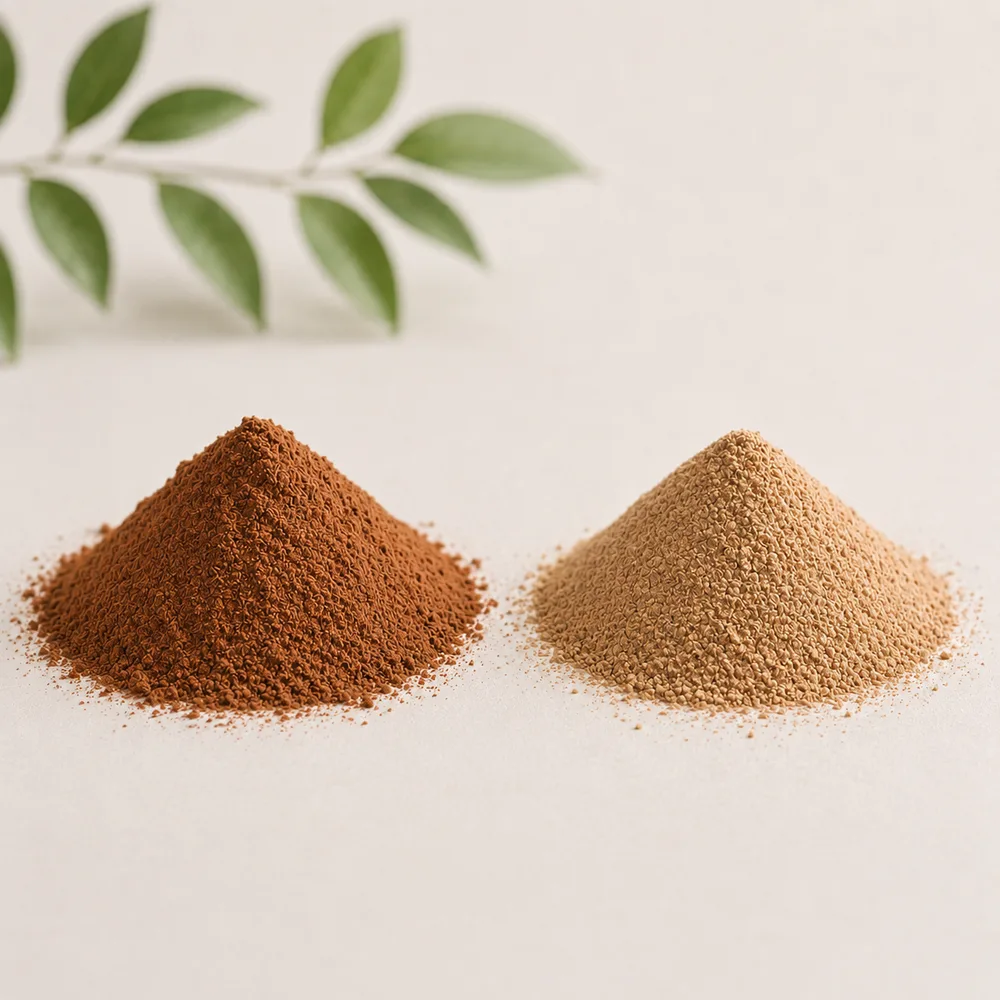
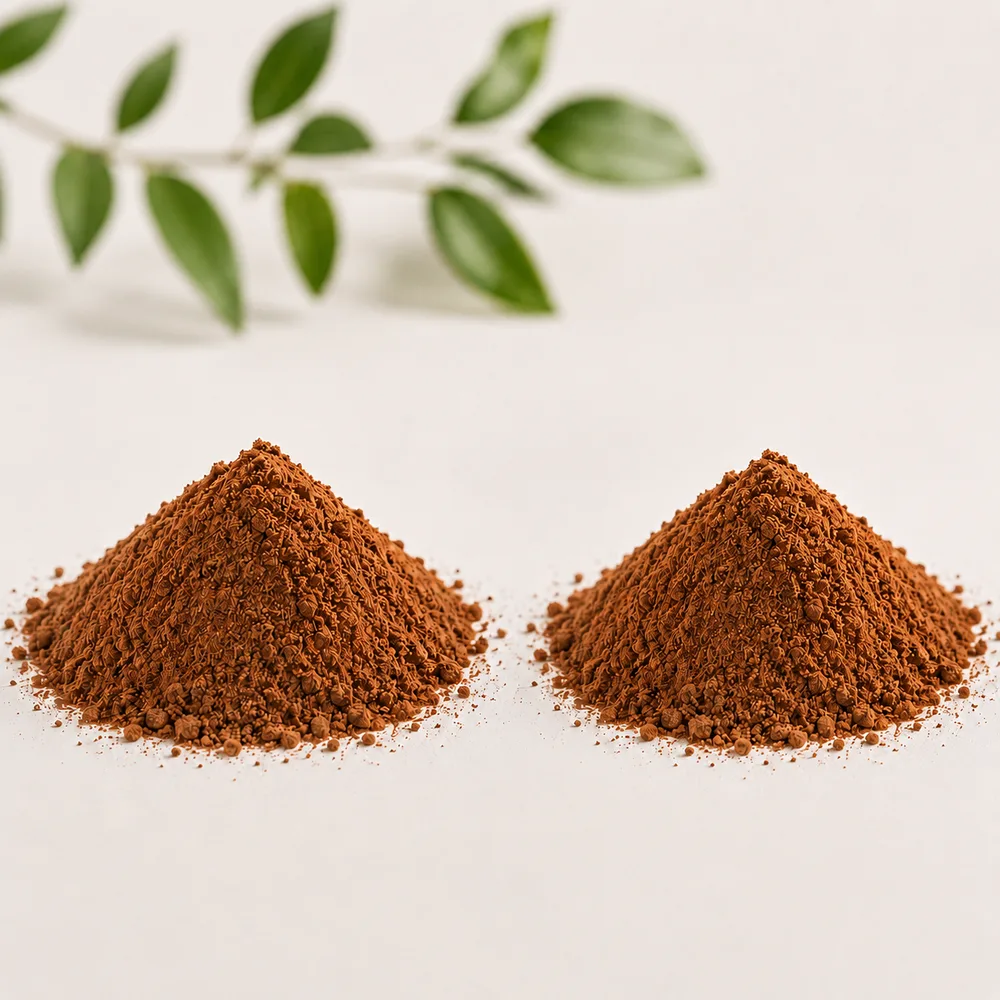
Rebuild the scan page around two jars of the same powder
Both jars now hold the same powder, so the piles match and the old premise is
gone. The page no longer asks which is malt and which is protein. It asks the
visitor to imagine both sold as the same premium protein powder, one carrying a
tag and one not, and the reveal is which of them can prove where it came from.

The wording for the untagged jar is deliberately not an accusation. "No tag, so
there is nothing to test. It might be a lower grade sold at the premium price,
or it might be exactly what it claims. Looking at it will never tell you
which." That is also the honest reading of the science: a tag proves origin,
and its absence proves nothing except that nothing can be proved. Calling the
second jar fake would claim a result the test cannot return.

The opening line stays conditional, "Say both of these were sold to you as the
same premium protein powder", rather than asserting it. The jars really hold
malt powder, so a visitor who tastes one would catch a flat assertion out. This
is the same rule that got the "close to identical" line cut on 24 Aug, applied
to the opposite fact, and the printed poster has been conditional all along.

Both card images are crops of the one photograph rather than two separate
shots, because the piles genuinely are the same powder and staging two
photographs would reintroduce a difference the page says is not there. Named
scan-left and scan-right, not scan-verified and scan-unverified: the filename
[…]

diff --git a/docs/qr-scan-tracking.md b/docs/qr-scan-tracking.md
@@ -1,9 +1,13 @@
 # QR scan tracking for event stands
 
-First used for the IP Week 2026 stand: two jars of brown powder (left: a
-chocolate malt powder, right: chocolate protein powder), one QR code on the
-stand card, and the question "could you tell which one is authentic?".
-Scanning it reveals what both jars hold and counts the scan.
+First used for the IP Week 2026 stand: two jars of the same brown powder, one
+QR code on the stand card, and the question "could you tell which one is
+authentic?". The page asks the visitor to imagine both jars sold as the same
+premium protein powder, one carrying a tag and one not, and counts the scan.
+
+The jars held two different powders until 25 August, a malt powder and a
+protein powder, and the page asked which was which. Both now hold the same
+powder so that the piles genuinely match.
 
 ## The pieces
 
@@ -108,39 +112,48 @@ If it is ever wanted back, print two codes pointing at `/malt` and `/protein`.
 Both still work, both still count separately, and both now land on the same
 combined page, so it is a printing decision and needs no code change at all.
 
-## Never say the two powders look identical
+## Look at the jars before writing about how they look
 
-The first draft of `scan.yml` said the jars were "to the eye, close to
-identical" and that "colour, texture and smell are easy to imitate". They are
-not identical: the malt powder is a visibly darker, redder brown than the
-protein powder, and the reader is holding their phone next to both jars when
-they read the sentence. A claim the visitor can disprove by looking up is worse
+This rule has been true in both directions inside two days, which is why it is
+written down rather than remembered.
+
+Until 25 August the jars held two different powders and the copy could not say
+they looked alike, because they did not. One was a visibly darker, redder brown
+than the other, and the reader is holding their phone next to both jars while
+reading the sentence. A claim the visitor disproves by glancing up is worse
 than no claim, and on this stand it discredits the demonstration at the exact
-moment we are asking them to trust a measurement.
+moment we are asking someone to trust a measurement.
 
-The printed poster already gets this right. "**If** these were sold as the
-same product, could you tell which one is authentic?" is conditional, and
-survives two different browns. The page follows the poster: it concedes the
-difference and makes that the argument. Appearance can show two things differ;
-it cannot say which one is what it claims to be, because shade moves between
-batches and suppliers for ordinary reasons. The wording of that argument
-changed on 24 Aug (see Copy approval below) but the argument did not.
+On 25 August both jars were refilled with the same powder on purpose, so the
+piles now match. The copy says so, and the demonstration is stronger for it:
+there is nothing left to compare, which was always the point.
 
-If the jars are ever refilled with better-matched powders, this copy still
-works. Do not "tighten" it back to identical.
+So the rule is not "say they are identical", and it is not "never say it". It
+is: look at the jars, then write. Nothing in this repository knows what is in a
+physical jar in Singapore, and no build, test or review will ever catch this
+class of error.
+
+The printed poster is written to survive either state. "**If** these were sold
+as the same product, could you tell which one is authentic?" is conditional and
+holds whichever powders are in the jars. The page follows it: the opening line
+says "Say both of these were sold to you as the same premium protein powder"
+rather than asserting it, because the jars really hold malt powder and a
+visitor who tastes one would know. Keep that conditional.
 
 ## Copy approval
 
-The wording in `src/_data/scan.yml` is a first draft written 24 Aug 2026 and
-has not been through Kirsty. Two things to look at deliberately:
+The wording in `src/_data/scan.yml` was drafted 24 Aug 2026 and rewritten on 25
+Aug when the jars were refilled. It has not been through Kirsty. Things to look
+at deliberately:
 
-- **The brand in the left jar is not named, and must not be.** The first draft
+- **The brand in the jars is not named, and must not be.** The first draft
   named it. It was pulled on 24 Aug on Bryan's instruction: it is a third
   party's mark, and putting it in our own copy at an IP conference is the wrong
-  place to be casual about someone else's trademark. It reads "a chocolate malt
-  powder" throughout. The demonstration does not need the brand. The point is
-  that two powders sold as the same thing cannot be told apart by looking, and
-  a name does no work in that sentence.
+  place to be casual about someone else's trademark. The copy now names
+  no brand at all: since 25 August both jars are presented as the same premium
+  protein powder. The demonstration does not need the brand. The point is that
+  two powders sold as the same thing cannot be told apart by looking, and a
+  name does no work in that sentence.
 
   The URL went with it, because the address bar is copy the visitor reads too.
   The page is now `/scan/` and the worker path `/jars`, so the name appears
